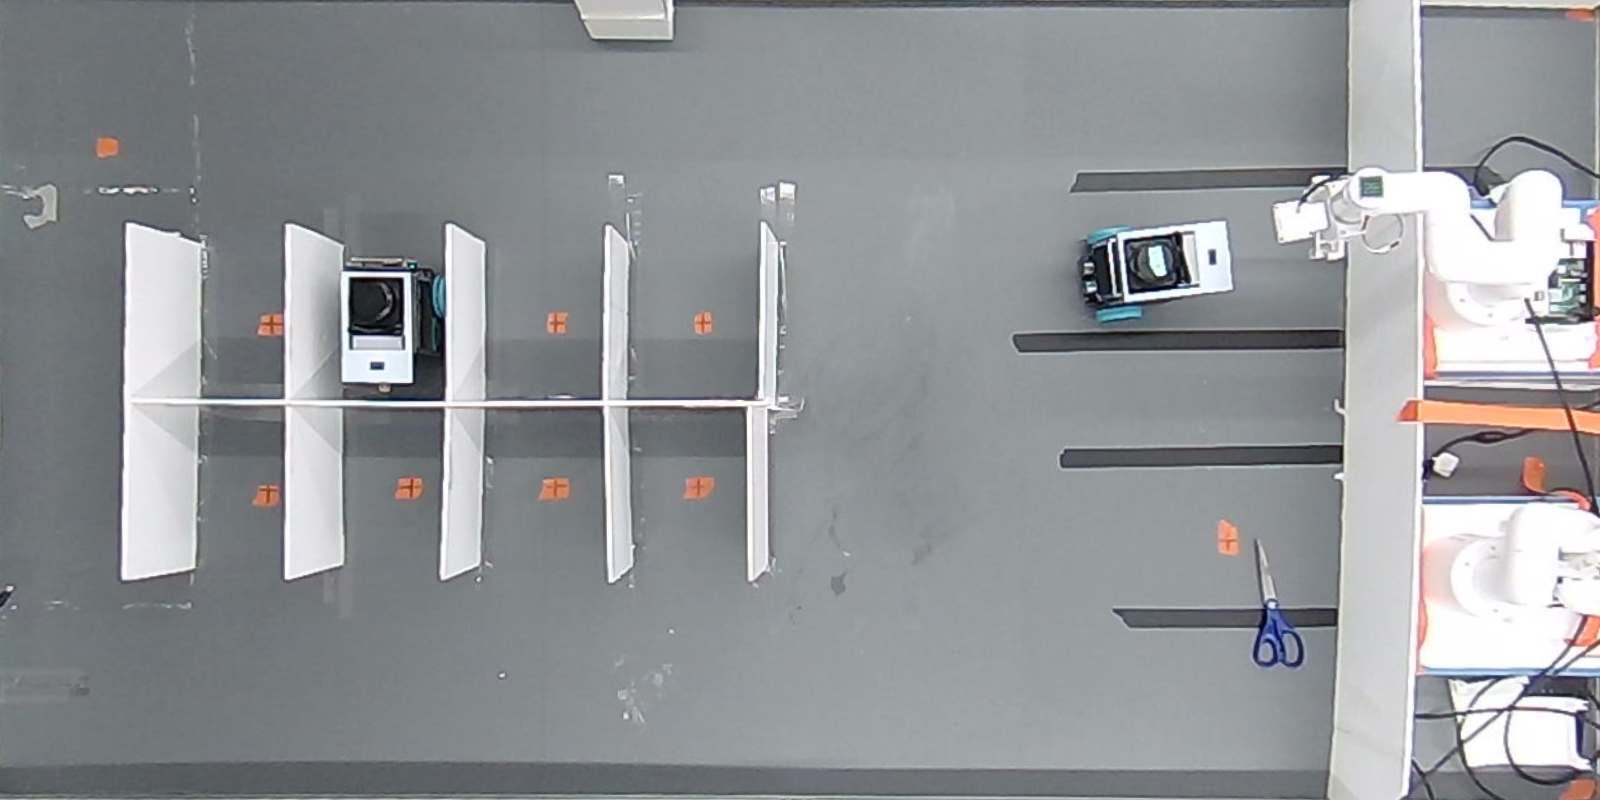
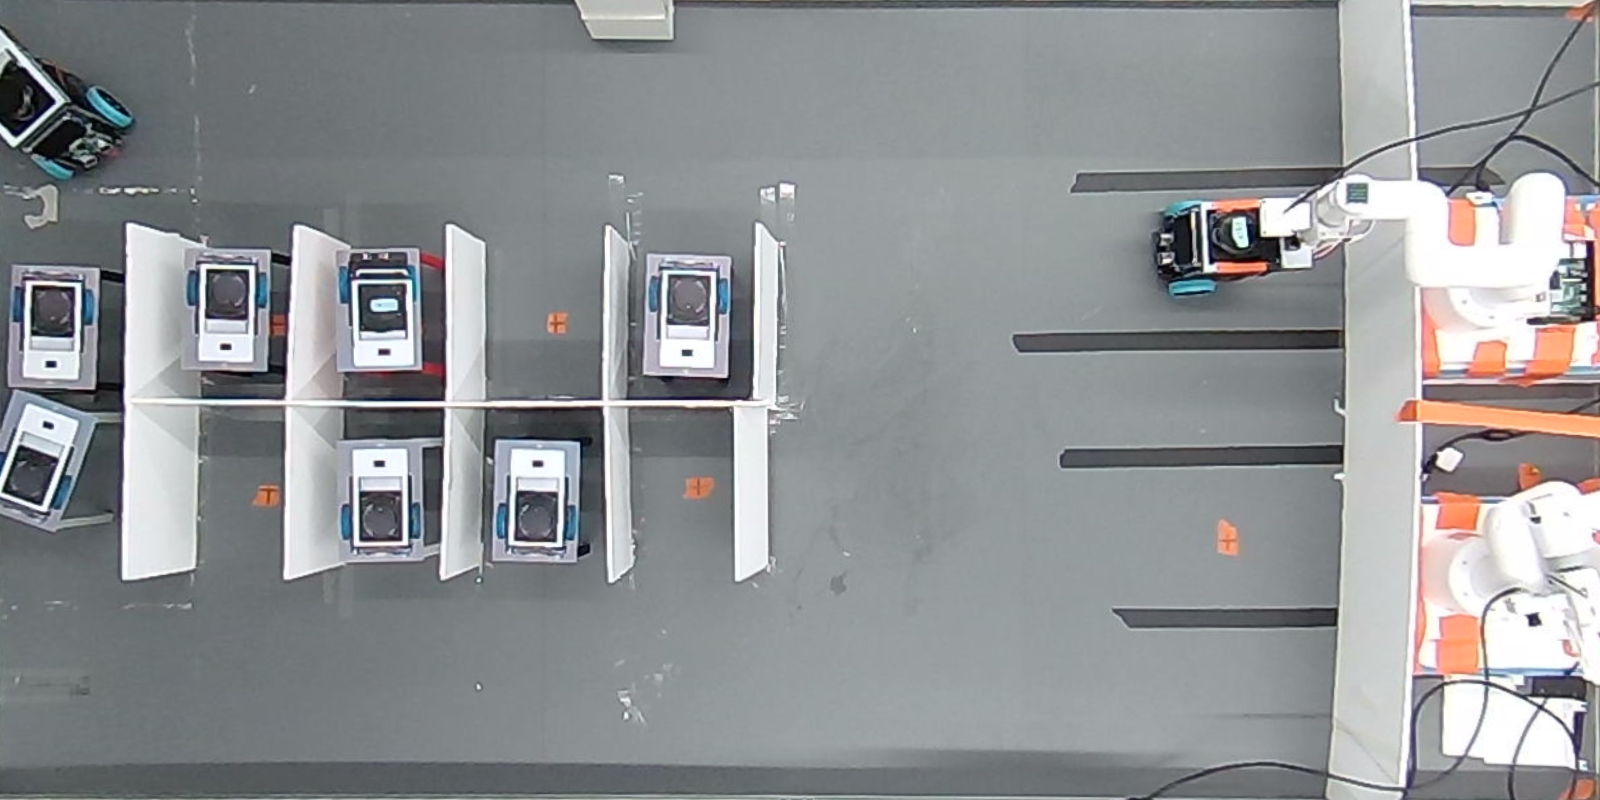
.

diff --git a/src/central_control/camera_tools/first_map/extract_bev_frames.py b/src/central_control/camera_tools/first_map/extract_bev_frames.py
@@ -1,11 +1,11 @@
 """Uniformly extract CVAT labeling images from a recorded BEV video.
 
 By default, this script selects the newest video in ``bev_recordings`` and
-extracts up to 200 frames spread across the whole recording.
+extracts up to 1500 frames spread across the whole recording.
 
 Run:
     cd ~/PINKK/src/central_control/camera_tools/first_map
-    /usr/bin/python3 extract_bev_frames.py --count 200
+    /usr/bin/python3 extract_bev_frames.py --count 1500
 """
 
 import argparse
@@ -35,8 +35,8 @@ def parse_args() -> argparse.Namespace:
     parser.add_argument(
         "--count",
         type=int,
-        default=200,
-        help="Maximum number of frames to extract (default: 200).",
+        default=1500,
+        help="Maximum number of frames to extract (default: 1500).",
     )
     parser.add_argument(
         "--output-dir",
